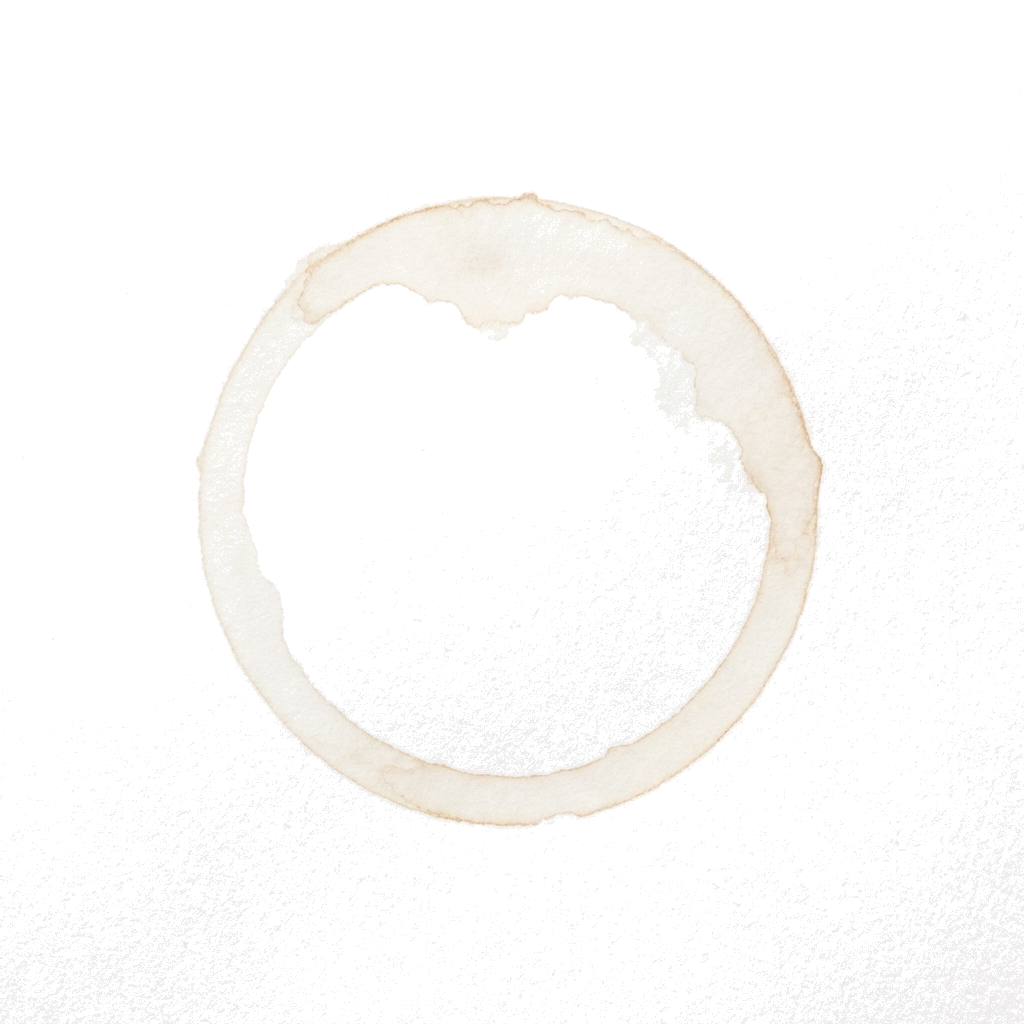
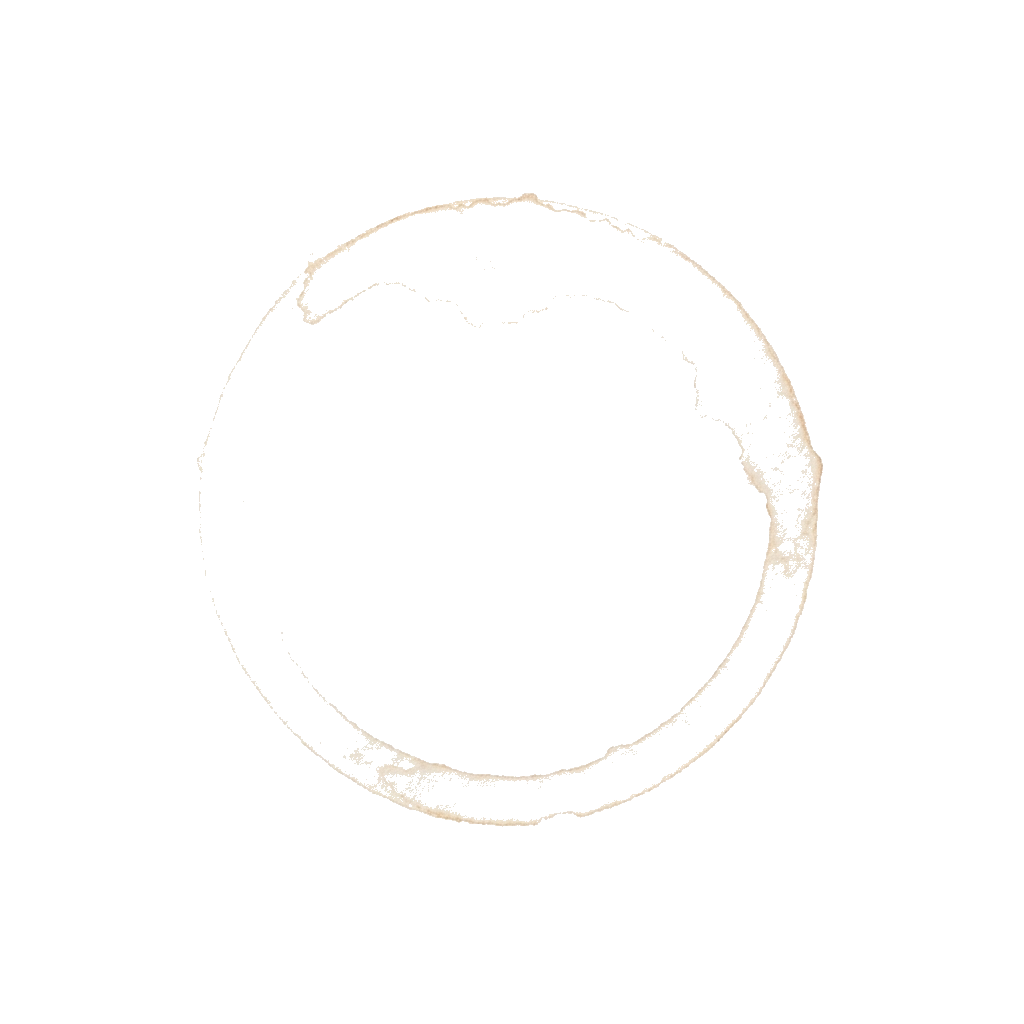
Fix: Replaced clumped stains with individual assets and refined transparency

diff --git a/app.js b/app.js
@@ -548,33 +548,43 @@ function addRandomStains() {
     // Add realistic Image-based Coffee Stains
     const stainImages = [
         'images/stain_splatter.png',
-        'images/stain_blob.png',
+        // 'images/stain_blob.png', // Removed: too clumped
         'images/stain_ring_light.png',
-        'images/stain_ring_broken.png'
+        'images/stain_ring_broken.png',
+        'images/stain_droplet_1.png',
+        // 'images/stain_droplet_2.png', // Removed: too clumped
+        'images/stain_ring_messy.png',
+        'images/stain_smudge_light.png',
+        // New individual items
+        'images/stain_individual_1.png',
+        'images/stain_individual_2.png',
+        'images/stain_individual_3.png'
     ];
 
-    const numStains = 4 + Math.floor(Math.random() * 3); // 4 to 6 stains
+    // More stains for variety, scattered
+    const numStains = 6 + Math.floor(Math.random() * 5); // 6 to 10 stains
 
     for (let i = 0; i < numStains; i++) {
         const img = document.createElement('img');
-        // Select random image
         const src = stainImages[Math.floor(Math.random() * stainImages.length)];
         img.src = src;
 
-        // Random styles
-        const size = 150 + Math.random() * 200; // 150px - 350px
+        // Randomize size heavily
+        const size = 60 + Math.random() * 250;
         img.style.width = `${size}px`;
         img.style.height = 'auto';
         img.style.position = 'fixed';
-        img.style.top = `${Math.random() * 90}vh`;
-        img.style.left = `${Math.random() * 90}vw`;
+
+        // Better scattering
+        img.style.top = `${Math.random() * 95}vh`;
+        img.style.left = `${Math.random() * 95}vw`;
+
         img.style.transform = `translate(-50%, -50%) rotate(${Math.random() * 360}deg)`;
         img.style.zIndex = '9999';
         img.style.pointerEvents = 'none';
 
-        // Blend mode for realism
         img.style.mixBlendMode = 'multiply';
-        img.style.opacity = 0.85 + Math.random() * 0.15; // 0.85 - 1.0
+        img.style.opacity = 0.5 + Math.random() * 0.45;
 
         document.body.appendChild(img);
     }

diff --git a/make_transparent.py b/make_transparent.py
@@ -1,18 +1,27 @@
 from PIL import Image
 import os
 import glob
+import math
 
-def remove_white_bg(image_path):
+def distance(c1, c2):
+    (r1, g1, b1) = c1[:3]
+    (r2, g2, b2) = c2[:3]
+    return math.sqrt((r1 - r2)**2 + (g1 - g2)**2 + (b1 - b2)**2)
+
+def remove_background(image_path, tolerance=30):
     try:
         img = Image.open(image_path)
         img = img.convert("RGBA")
         datas = img.getdata()
-
+        
+        # Sample the top-left pixel as the background color
+        bg_color = datas[0]
+        
         new_data = []
         for item in datas:
-            # Change all white (also shades of whites)
-            # Find all pixels that are nearly white
-            if item[0] > 240 and item[1] > 240 and item[2] > 240:
+            # Check modification: if the pixel is close to the background color -> transparent
+            # Also checking for pure white just in case
+            if distance(item, bg_color) < tolerance or (item[0] > 240 and item[1] > 240 and item[2] > 240):
                 new_data.append((255, 255, 255, 0))
             else:
                 new_data.append(item)
@@ -28,4 +37,4 @@ target_dir = "/home/meow/Documents/Antigravity/CREAFcoffee/images"
 files = glob.glob(os.path.join(target_dir, "*.png"))
 
 for f in files:
-    remove_white_bg(f)
+    remove_background(f, tolerance=50) # Increased tolerance
